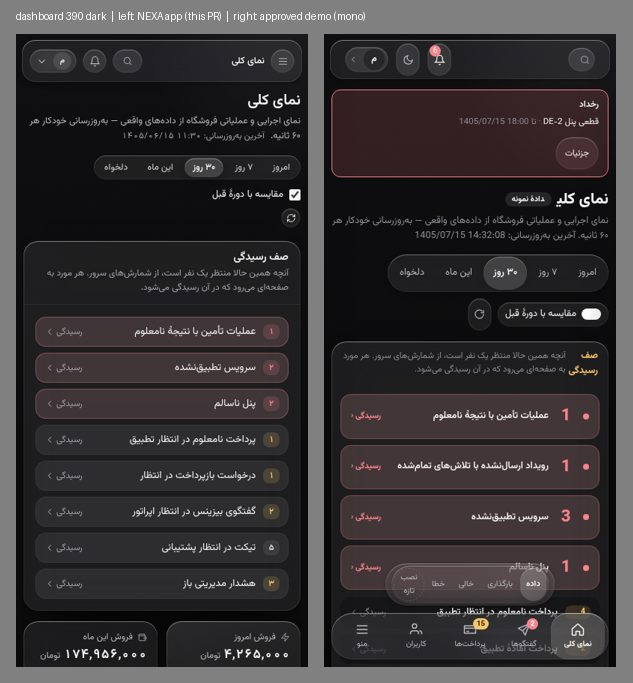
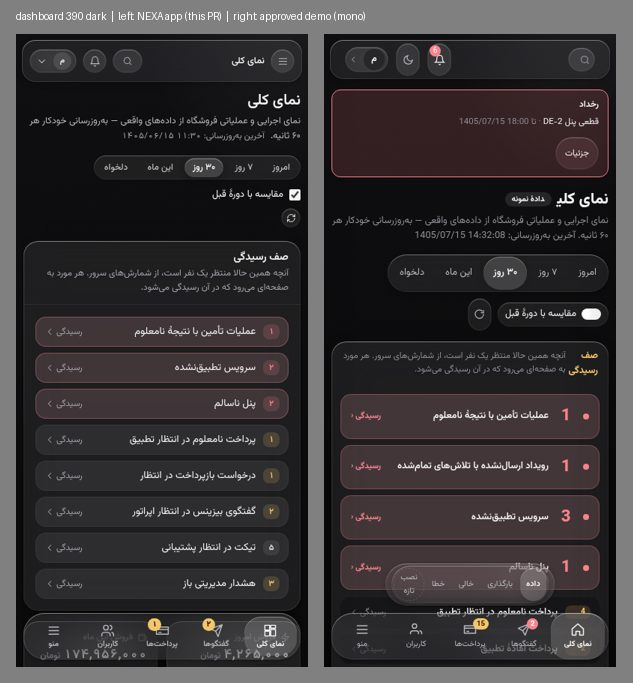
docs(web-redesign): the side-by-side images on the final head, with the bottom navigation
Re-shot on the final head: the phone views now show the glass bottom-navigation
capsule beside the demo's. The approval record no longer lists the capsule as
not carried over.

Claude-Session: https://claude.ai/code/session_012oQ3P4LLkQ6BD3XRDpbPck

Changed region(s): [[0.03, 0.8917, 0.4803, 0.9839]]

diff --git a/docs/web-redesign/glass-theme/README.md b/docs/web-redesign/glass-theme/README.md
@@ -28,8 +28,16 @@ approval record):
 
 - The demo's state bar («نمایش حالتها»), its «دادهٔ نمونه» badges, and its palette and
   identity switchers.
-- The phone's bottom-navigation capsule. The app has no bottom navigation, and adding one
-  would be a new navigation surface rather than a restyle. Navigation on a phone stays the
-  menu button and the floating sidebar sheet.
 - The incident banner at the top of the demo. It is the demo's sample incident; the app draws
   the same banner only when a real incident asks to be seen.
+
+The phone's glass bottom-navigation capsule IS carried over: overview, Business chats, payments,
+users and the menu, each drawn only when the operator's navigation already holds it, with the
+sidebar's own server counters as badges. The 390 light views below show it in the light theme:
+
+| Screen                        | 390 light                                 |
+| ----------------------------- | ----------------------------------------- |
+| Users list, filter panel open | [390 light](users-filters--390-light.jpg) |
+| Payments                      | [390 light](payments--390-light.jpg)      |
+| Dashboard                     | [390 light](dashboard--390-light.jpg)     |
+| Customer 360                  | [390 light](customer-360--390-light.jpg)  |

diff --git a/.claude/skills/nexa-web-design/references/redesign-status.md b/.claude/skills/nexa-web-design/references/redesign-status.md
@@ -40,9 +40,6 @@
   logic, request, route, gate, idempotency key, confirmation or text key changes with the theme.
 - **Not carried over:** the demo's other palettes, its palette and identity switchers, its state
   bar and sample-scenario boxes, and its sample data.
-  Also the phone's bottom-navigation capsule: the app has no bottom navigation to restyle, and
-  adding one would be a new navigation surface, not a theme. The phone keeps the menu button and
-  the floating sidebar sheet.
 - The rules of `SKILL.md` still bind the theme: colours through `tokens.css` only, no `style=`
   attributes (CSP `style-src 'self'`), logical properties, 44px touch targets, and AA contrast
   pinned by `tests/unit/web-token-contrast.test.ts` (glass surfaces over the mesh included).
